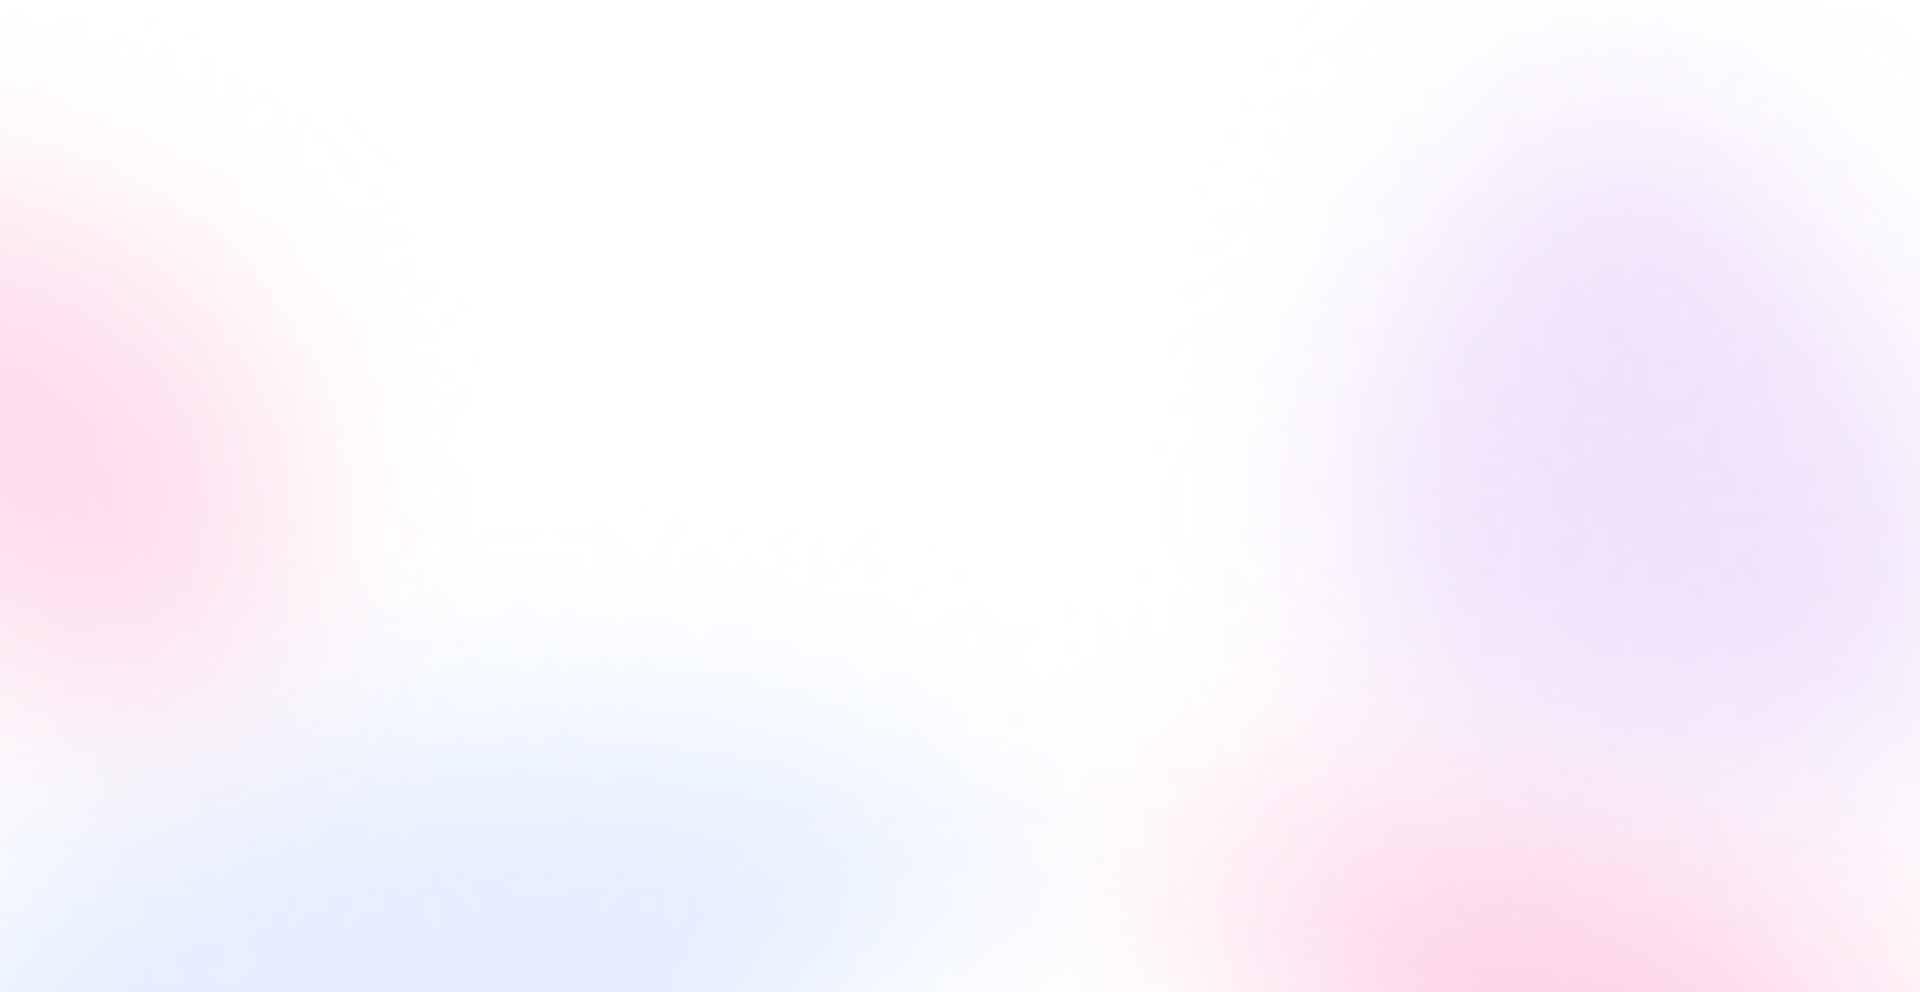
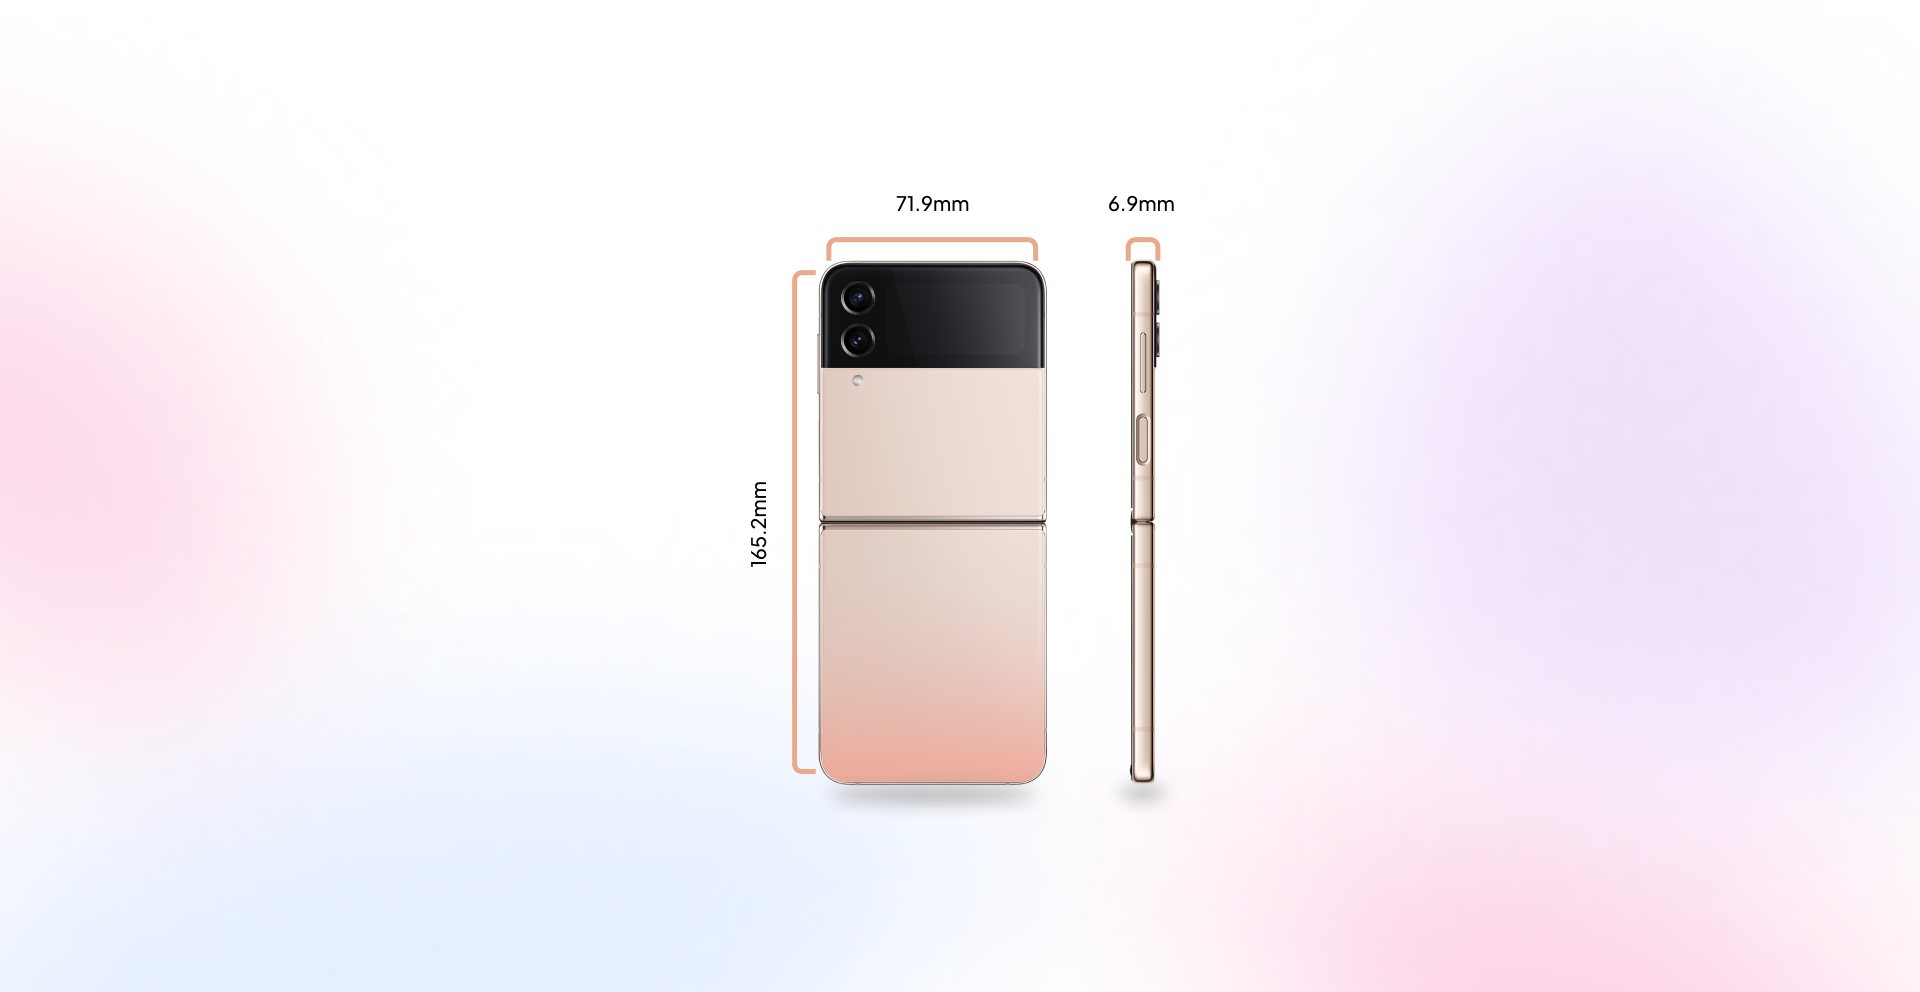
THEME2

Changed region(s): [[0.375, 0.1875, 0.625, 0.8125], [0.5625, 0.1875, 0.625, 0.2188]]

diff --git a/index.html b/index.html
@@ -63,8 +63,7 @@
         margin: 0 50px;
       }
 
-      header,
-      #header2, #header3 {
+      header {
         width: auto;
         background-image: url("https://github.com/nicolealcala/SAM-Midterms/blob/main/assets/theme1.png?raw=true");
         background-position: center center;
@@ -75,8 +74,18 @@
       }
 
       #header2 {
+        width: auto;
         background: linear-gradient(rgb(112, 79, 183, 0.5), rgb(12, 6, 36)),
           url("https://s.yimg.com/os/creatr-uploaded-images/2022-08/4dba1880-1808-11ed-bffa-50adc1e7b4fe");
+        /* background-repeat: no-repeat; */
+        background-position: center center;
+        background-attachment: fixed;
+      }
+
+      #header3 {
+        width: auto;
+        background-image: url("https://github.com/nicolealcala/SAM-Midterms/blob/main/assets/theme2.png?raw=true");
+        background-repeat: no-repeat;
         background-position: center center;
         background-attachment: fixed;
       }
@@ -1394,9 +1403,14 @@
       </section>
     </div>
 
+    <!-- BUILD -->
     <div id="build">
       <header id="header3">
-        <img src="https://github.com/nicolealcala/SAM-Midterms/blob/main/assets/build-dimensions.png?raw=true" alt="" class="img-fluid">
+        <div class="row">
+          <div class="d-flex justify-content-center align-items-center col-12">
+            <img src="https://github.com/nicolealcala/SAM-Midterms/blob/main/assets/build-dimensions.png?raw=true" alt="" class="img-fluid" width="30%">
+          </div>
+        </div>
       </header>
     </div>
 
